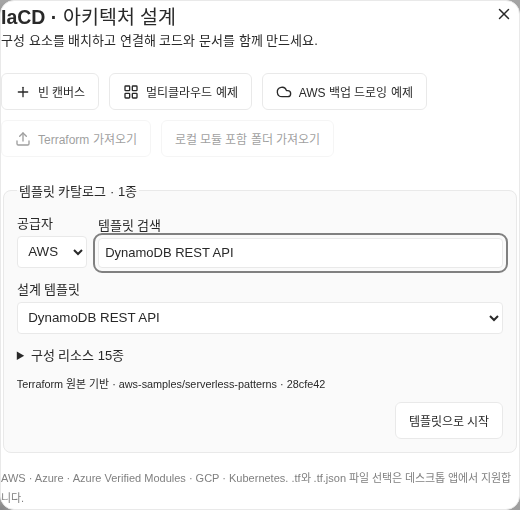
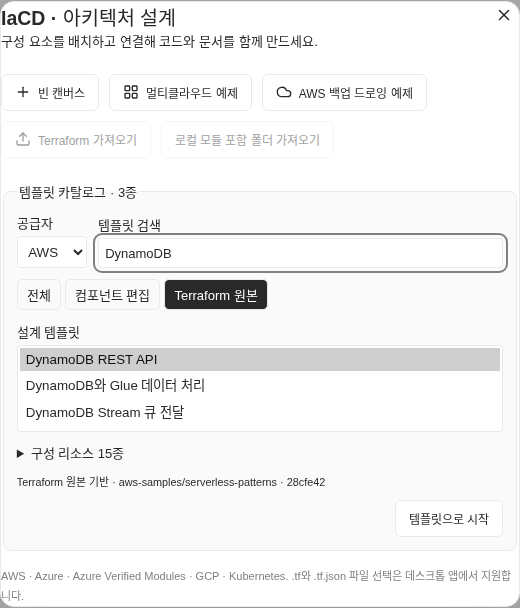
Improve cloud template discovery and canvas code navigation

diff --git a/src/ArchitectureDocument.tsx b/src/ArchitectureDocument.tsx
@@ -128,13 +128,15 @@ export function ArchitectureStart({
   const [provider, setProvider] = useState("AWS");
   const [templateId, setTemplateId] = useState(cloudTemplates[0].id);
   const [catalogSearch, setCatalogSearch] = useState("");
+  const [catalogMode, setCatalogMode] = useState("전체");
   const query = catalogSearch.trim().toLowerCase();
   const matches = cloudTemplates.filter(
     (t) =>
       t.provider === provider &&
+      (catalogMode === "전체" || catalogMode === ("repo" in t ? "Terraform 원본" : "컴포넌트 편집")) &&
       (!query ||
         [t.name, t.id, ...t.kinds].some((v) =>
-          v.toLowerCase().includes(query),
+          (v + " " + (COMPONENTS[v]?.label || "")).toLowerCase().includes(query),
         )),
   );
   const chosen = matches.find((t) => t.id === templateId) || matches[0];
@@ -262,10 +264,18 @@ export function ArchitectureStart({
               placeholder="이름 또는 Terraform 리소스"
             />
           </label>
+          <div className="catalog-modes" role="group" aria-label="템플릿 편집 방식">
+            {["전체", "컴포넌트 편집", "Terraform 원본"].map((mode) => (
+              <button key={mode} type="button" aria-pressed={catalogMode === mode}
+                onClick={() => setCatalogMode(mode)}>{mode}</button>
+            ))}
+          </div>
           <label>
             설계 템플릿
             <select
               aria-label="설계 템플릿"
+              size={Math.min(5, Math.max(2, matches.length))}
+              disabled={!matches.length}
               value={chosen?.id || ""}
               onChange={(e) => setTemplateId(e.target.value)}
             >
@@ -284,7 +294,12 @@ export function ArchitectureStart({
               </p>
             </details>
           ) : (
-            <p>일치하는 템플릿이 없습니다.</p>
+            <div className="catalog-empty" role="status">
+              <p>일치하는 템플릿이 없습니다.</p>
+              <button type="button" onClick={() => { setCatalogSearch(""); setCatalogMode("전체"); }}>
+                검색 조건 초기화
+              </button>
+            </div>
           )}
           {chosen && "repo" in chosen && (
             <small>
@@ -449,7 +464,31 @@ export default function ArchitectureDocument({
       return [];
     }
   }, [result.files, livePath]);
+  const viewer = useRef<HTMLDetailsElement>(null);
+  const resourceCode = useRef<HTMLDetailsElement>(null);
   const declaration = declarations.find((d) => d.id === selected);
+  const nodeCodePath = useMemo(() => {
+    if (!node || tab !== "canvas") return undefined;
+    if (node.sourceFile && node.address) {
+      const path = "terraform/" + node.sourceFile;
+      return Object.hasOwn(result.files, path) ? path : undefined;
+    }
+    return Object.keys(result.files).find((path) =>
+      path.endsWith(".tf.json") && terraformDeclarations(result.files[path], [node]).length > 0,
+    );
+  }, [node, result.files, tab]);
+
+  function showNodeCode() {
+    if (!nodeCodePath || !viewer.current) return;
+    setLiveFile(nodeCodePath);
+    setDetail("closed");
+    viewer.current.open = true;
+    requestAnimationFrame(() => {
+      if (!resourceCode.current) return;
+      resourceCode.current.open = true;
+      resourceCode.current.querySelector<HTMLElement>("pre")?.focus();
+    });
+  }
   const fileNames = Object.keys(result.files),
     activeFile = fileNames.includes(file) ? file : fileNames[0];
   function change(next: ArchitectureModel) {
@@ -1236,6 +1275,11 @@ export default function ArchitectureDocument({
                   />
                 </label>
                 <p className="small-text muted">{node.address || node.kind}</p>
+                {nodeCodePath && (
+                  <button type="button" className="code-jump" onClick={showNodeCode}>
+                    Terraform 선언 보기 <span aria-hidden="true">↗</span>
+                  </button>
+                )}
                 {AVM_MODULES[node.kind as keyof typeof AVM_MODULES] && (
                   <p className="arch-module">
                     {AVM_MODULES[node.kind as keyof typeof AVM_MODULES].source}
@@ -1530,7 +1574,7 @@ export default function ArchitectureDocument({
         </div>
       )}
       {tab === "canvas" && (
-        <details open className="terraform-live">
+        <details open ref={viewer} className="terraform-live">
           <summary>Terraform 뷰어</summary>
           {livePath && (
             <>
@@ -1544,7 +1588,7 @@ export default function ArchitectureDocument({
                 ))}
               </select>
               {declarations.length > 0 && (
-                <details>
+                <details ref={resourceCode}>
                   <summary>리소스별 코드</summary>
                   <label>
                     Terraform 선언
@@ -1564,7 +1608,12 @@ export default function ArchitectureDocument({
                     </select>
                   </label>
                   {declaration && (
-                    <pre aria-label="선택한 Terraform 선언">
+                    <button type="button" className="code-jump" onClick={() => openDetail(declaration.id)}>
+                      캔버스에서 보기 <span aria-hidden="true">↗</span>
+                    </button>
+                  )}
+                  {declaration && (
+                    <pre tabIndex={-1} aria-label="선택한 Terraform 선언">
                       {typeof declaration.block === "string"
                         ? declaration.block
                         : JSON.stringify(declaration.block, null, 2)}

diff --git a/tests/ui/builder.spec.ts b/tests/ui/builder.spec.ts
@@ -34,9 +34,18 @@ test("catalog creates an Azure AVM canvas and exposes the selected module", asyn
     .getByRole("button", { name: "IaCD 아키텍처", exact: true })
     .click();
   await page.getByLabel("공급자", { exact: true }).selectOption("Azure");
+  await page.getByRole("button", { name: "컴포넌트 편집", exact: true }).click();
+  await expect(page.getByLabel("설계 템플릿").locator("option")).toHaveCount(3);
+  await page.getByLabel("템플릿 검색").fill("no-matching-template");
+  await expect(page.getByRole("button", { name: "템플릿으로 시작" })).toBeDisabled();
+  await page.getByRole("button", { name: "검색 조건 초기화" }).click();
+  await expect(page.getByLabel("설계 템플릿").locator("option")).toHaveCount(30);
   await page.getByLabel("설계 템플릿").selectOption("azure-avm");
   await page.getByRole("button", { name: "템플릿으로 시작" }).click();
-  await page.getByText("리소스별 코드", { exact: true }).click();
+  await page.getByRole("button", { name: "Terraform 선언 보기" }).click();
+  await expect(page.getByLabel("선택한 Terraform 선언")).toBeFocused();
+  await page.getByRole("button", { name: "캔버스에서 보기" }).click();
+  await expect(page.getByLabel("컴포넌트 표시 이름")).toBeFocused();
   await expect(page.getByLabel("선택한 Terraform 선언")).toContainText(
     "Azure/avm",
   );
@@ -52,10 +61,12 @@ test("packaged AWS template opens without network access", async ({ page }) => {
   await page
     .getByRole("button", { name: "IaCD 아키텍처", exact: true })
     .click();
-  await page.getByLabel("템플릿 검색").fill("DynamoDB REST API");
+  await page.getByRole("button", { name: "Terraform 원본", exact: true }).click();
+  await page.getByLabel("템플릿 검색").fill("DynamoDB");
   await page
     .getByRole("dialog")
     .screenshot({ path: "test-results/architecture-catalog.png" });
+  await page.getByLabel("설계 템플릿").selectOption({ label: "DynamoDB REST API" });
   await page.getByRole("button", { name: "템플릿으로 시작" }).click();
   await expect(page.getByLabel("아키텍처 제목")).toHaveValue(
     "AWS · DynamoDB REST API",

diff --git a/src/styles.css b/src/styles.css
@@ -2678,3 +2678,14 @@ textarea {
 .architecture-catalog details p {overflow-wrap:anywhere;}
 .architecture-catalog label { display: grid; gap: .25rem; }
 .architecture-catalog select { max-width: 100%; }
+
+.catalog-modes, .catalog-empty { grid-column: 1 / -1; }
+.catalog-modes { display: flex; flex-wrap: wrap; gap: 4px; }
+.catalog-modes button, .catalog-empty button, .code-jump {
+  padding: 5px 9px; color: inherit; border: 1px solid var(--line); border-radius: 5px;
+}
+.catalog-modes button[aria-pressed="true"] { background: var(--ink); color: var(--bg); }
+.architecture-catalog select[size] { padding: 2px; }
+.architecture-catalog select[size] option { padding: 4px 6px; }
+.code-jump { margin-block: 4px; }
+.terraform-live pre:focus-visible { outline: 2px solid var(--muted); outline-offset: 2px; }
